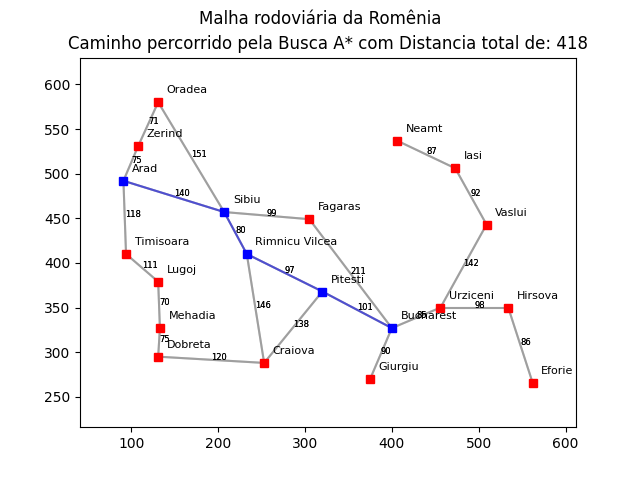
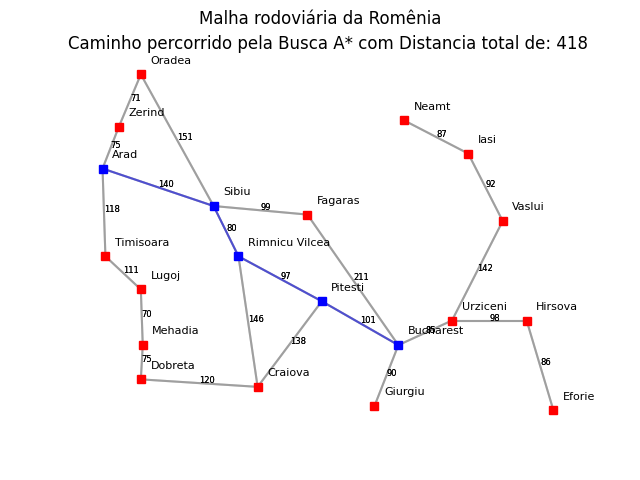
remove axis and better vars names

diff --git a/main.py b/main.py
@@ -38,7 +38,9 @@ class Grafo:
         distancia = 0
         atual = origem
         while atual != destino:
-            proximo = min(self.vertices[atual]['proximas'], key=lambda x: self.vertices[x[0]]['dist_obj'])
+            proximo = min(
+                self.vertices[atual]['proximas'],
+                key=lambda cid_prox: self.vertices[cid_prox[0]]['dist_obj'])
             if proximo is None:
                 return None
             distancia += proximo[1]
@@ -51,7 +53,9 @@ class Grafo:
         distancia = 0
         atual = origem
         while atual != destino:
-            proximo = min(self.vertices[atual]['proximas'], key=lambda x: x[1] + self.vertices[x[0]]['dist_obj'])
+            proximo = min(
+                self.vertices[atual]['proximas'],
+                key=lambda cid_prox: cid_prox[1] + self.vertices[cid_prox[0]]['dist_obj'])
             if proximo is None:
                 return None
             distancia += proximo[1]
@@ -95,14 +99,8 @@ class Grafo:
         if subtitulo is not None:
             plt.title(subtitulo)
 
-        # Definir a escala do gráfico
-        min_x = min(coords.values(), key=lambda x: x[0])[0]
-        max_x = max(coords.values(), key=lambda x: x[0])[0]
-        min_y = min(coords.values(), key=lambda x: x[1])[1]
-        max_y = max(coords.values(), key=lambda x: x[1])[1]
-        pad = 50
-        plt.xlim(min_x - pad, max_x + pad)
-        plt.ylim(min_y - pad, max_y + pad)
+        # Desativa os eixos
+        plt.axis('off')
 
         # Plotar as arestas como linhas
         for cidade1_nome, cidade2_nome, dist_local in arestas:
